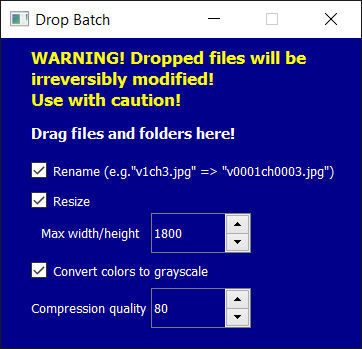
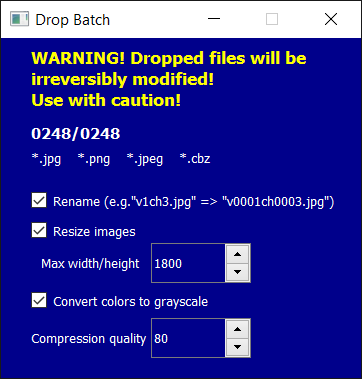
Done

diff --git a/DropBatch.py b/DropBatch.py
@@ -1,7 +1,7 @@
 # Requires Python 3.5+ and PyQt5 installed!
 # pip install PyQt5
 
-import sys, os, re, glob
+import sys, os, re, glob, zipfile, shutil
 
 from PyQt5.QtWidgets import (
 	QApplication,
@@ -23,7 +23,7 @@ from PyQt5.QtGui import (
 )
 
 supported_image_extensions = (".jpg", ".png", ".jpeg",)
-supported_zip_extensions = (".cbz", ".zip")
+supported_zip_extensions = (".cbz",)
 
 supported_file_extensions = []
 supported_file_extensions += supported_image_extensions
@@ -73,17 +73,45 @@ class Runnable(QRunnable):
 		for i, link in enumerate(self.jobDefinition.links):
 			self.statusLabel.setText("%04d/%04d"%(i + 1, links_count,))
 			
-			if self.jobDefinition.resizeChecked:
-				self.resize_image(link)
-			if self.jobDefinition.renameChecked:
-				os.rename(link, self.get_rename_filename(link))
+			_, ext = os.path.splitext(link)
+			
+			if ext.lower() in supported_image_extensions:
+				self.process_image(link)
+				self.rename_image(link)
+			else:
+				self.process_zip(link)
 	
-	def resize_image(self, imagePath):
-		img = QImage(imagePath)
+	def process_zip(self, link):
+		file_path, file_name = os.path.split(link)
+		temp_dir = "tmp_%s"%(file_name,)
+		temp_path = os.path.join(file_path, temp_dir)
+		
+		namelist = []
+		
+		with zipfile.ZipFile(link, 'r') as myzip:
+			namelist = myzip.namelist()
+			myzip.extractall(temp_path)
+		
+		os.chdir(temp_path)
+		
+		with zipfile.ZipFile(link, 'w') as myzip:
+			for imagePath in namelist:
+				self.process_image(imagePath)
+				myzip.write(imagePath)
+		
+		os.chdir(file_path)
+		
+		shutil.rmtree(temp_path)
+	
+	def process_image(self, link):
+		if not self.jobDefinition.grayscaleChecked and not self.jobDefinition.resizeChecked:
+			return
+		
+		img = QImage(link)
 		
 		anyChanges = False
 		
-		if img.width() > self.jobDefinition.maxImageSize or img.height() > self.jobDefinition.maxImageSize:
+		if self.jobDefinition.resizeChecked and (img.width() > self.jobDefinition.maxImageSize or img.height() > self.jobDefinition.maxImageSize):
 			img = img.scaled(
 				self.jobDefinition.maxImageSize,
 				self.jobDefinition.maxImageSize,
@@ -97,7 +125,11 @@ class Runnable(QRunnable):
 			anyChanges = True
 		
 		if anyChanges:
-			img.save(imagePath, quality = self.jobDefinition.imageQuality)
+			img.save(link, quality = self.jobDefinition.imageQuality)
+	
+	def rename_image(self, link):
+		if self.jobDefinition.renameChecked:
+			os.rename(link, self.get_rename_filename(link))
 	
 	def get_rename_filename(self, current_path):
 		file_path, file_name = os.path.split(current_path)
@@ -135,7 +167,7 @@ class DropBatch(QMainWindow):
 		self.renameCheckbox.setGeometry(30, 150, 320, 25)
 		self.renameCheckbox.setChecked(True)
 		
-		self.resizeCheckbox = QCheckBox("Resize", self)
+		self.resizeCheckbox = QCheckBox("Resize images", self)
 		self.resizeCheckbox.setGeometry(30, 180, 270, 25)
 		self.resizeCheckbox.setChecked(True)
 		

diff --git a/README.md b/README.md
@@ -17,6 +17,7 @@ Drag and drop image files on app window. These files shall be processed.
 * convert image colors to grayscale,
 * set image compression quality,
 * choose which processing options will be applied to your images,
+* CBZ files support - images inside won't be renamed, because files are supposed to have a correct order inside of the archive,
 * you don't need to wait until your drop ends processing, you may drop other files and directories on the same app window.
 
 ## Primary purpose
